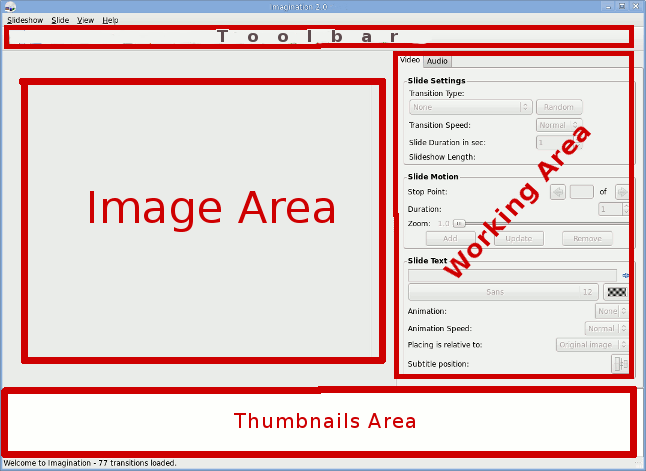
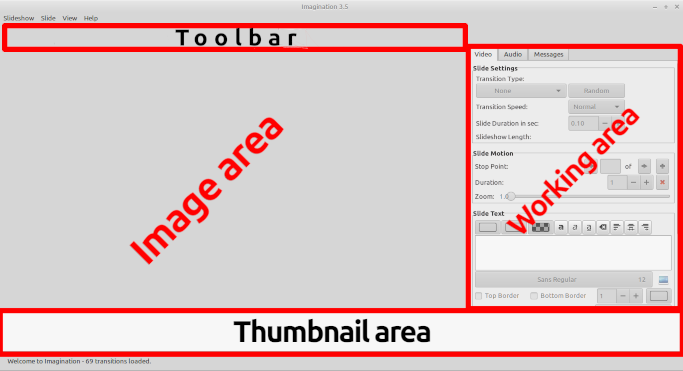
Updated documentation and images. Cleanup up make files. Updated Changelog.
git-svn-id: https://svn.code.sf.net/p/imagination/code/trunk@714 6247ab75-7297-438c-a817-b4e4d5db8f37

diff --git a/src/support.h b/src/support.h
@@ -21,7 +21,7 @@
 #define __IMAGINATION_SUPPORT_H
 
 #ifndef PLUGINS_INSTALLED
-#define PLUGINS_INSTALLED 0
+#define PLUGINS_INSTALLED 1
 #endif
 
 #ifdef HAVE_CONFIG_H
